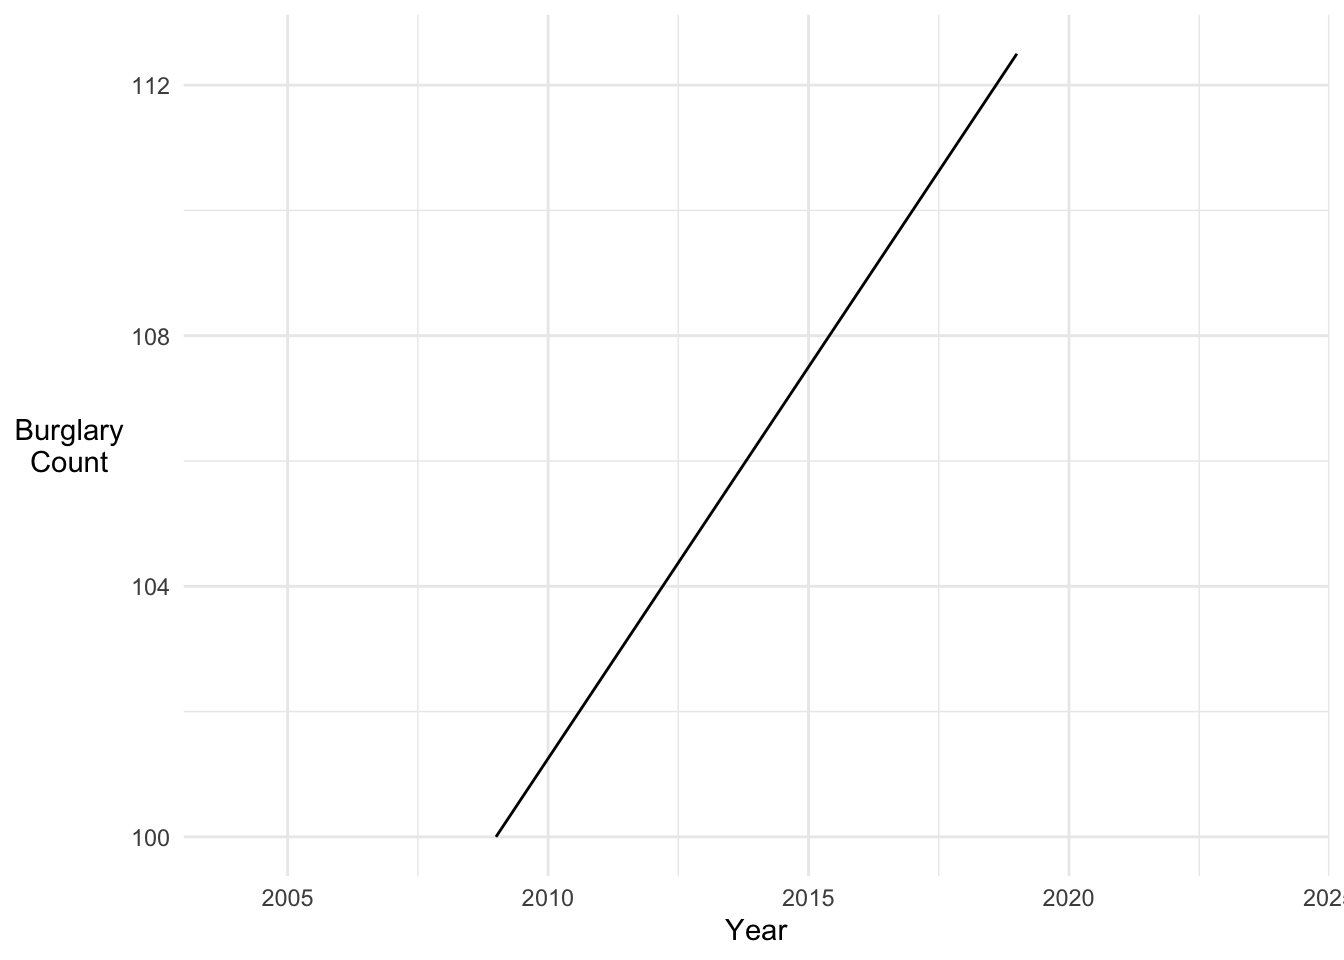
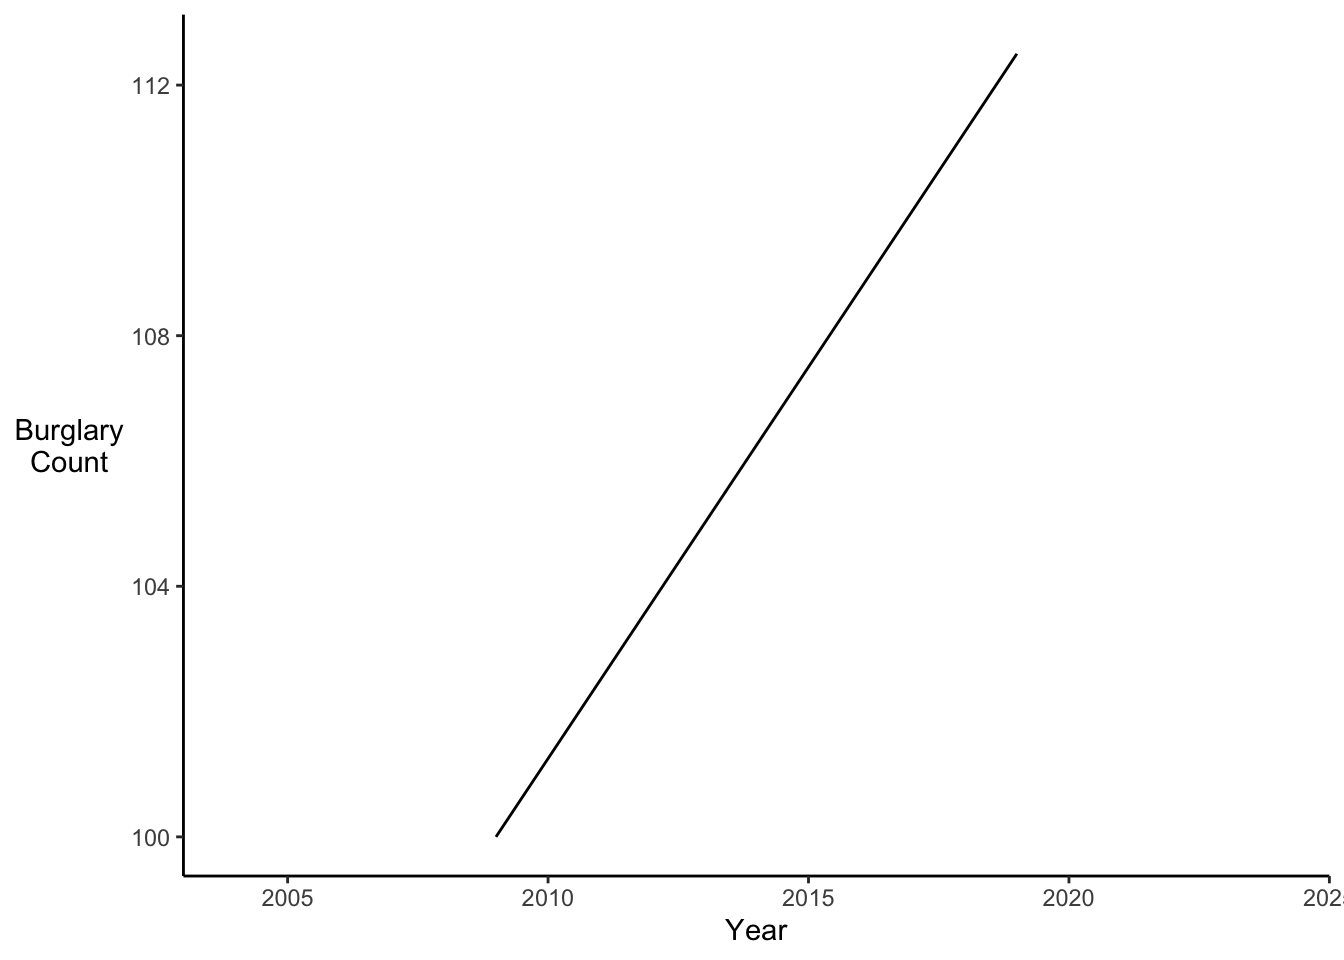
Changed graph themes

diff --git a/public/summaries/lies_and_stats_levitin_2016/index.html b/public/summaries/lies_and_stats_levitin_2016/index.html
@@ -178,7 +178,7 @@ ggplot(product_ratings, aes(x = Product, y = mean_rating, fill = Product)) +
   scale_fill_discrete(guide = &quot;none&quot;) +
   scale_y_continuous(&quot;Customer\nRating&quot;) +
   coord_cartesian(ylim = c(67.5, 71.5)) +
-  theme_minimal() +
+  theme_classic() +
   theme(axis.title.y = element_text(angle = 0, vjust = 0.5))</code></pre>
 <p><img src="/summaries/lies_and_stats_Levitin_2016_files/figure-html/truncated%20bar%20chart-1.png" width="672" style="display: block; margin: auto;" /></p>
 <p>It looks like my product blows my competitor’s out of the water. However, notice where the y-axis starts and ends.</p>
@@ -188,7 +188,7 @@ ggplot(product_ratings, aes(x = Product, y = mean_rating, fill = Product)) +
   geom_col() +
   scale_fill_discrete(guide = &quot;none&quot;) +
   scale_y_continuous(&quot;Customer\nRating&quot;, limits = c(0, 100)) +
-  theme_minimal() +
+  theme_classic() +
   theme(axis.title.y = element_text(angle = 0, vjust = 0.5))</code></pre>
 <p><img src="/summaries/lies_and_stats_Levitin_2016_files/figure-html/full%20range%20bar%20chart-1.png" width="672" style="display: block; margin: auto;" /></p>
 </div>
@@ -201,7 +201,7 @@ ggplot(product_ratings, aes(x = Product, y = mean_rating, fill = Product)) +
   ggplot(aes(x = Year, y = burglary_count)) +
   geom_line(group = 1) +
   scale_y_continuous(&quot;Burglary\nCount&quot;) +
-  theme_minimal() +
+  theme_classic() +
   theme(axis.title.y = element_text(angle = 0, vjust = 0.5))</code></pre>
 <p><img src="/summaries/lies_and_stats_Levitin_2016_files/figure-html/discontinuous%20line%20graph-1.png" width="672" style="display: block; margin: auto;" /></p>
 <p>However, the apparent spike in burglaries is just an artefact of the fact that 5 year’s worth of increases have been squeezed into one notch on the x-axis.</p>
@@ -215,7 +215,7 @@ ggplot(product_ratings, aes(x = Product, y = mean_rating, fill = Product)) +
   geom_line(group = 1) +
   scale_y_continuous(&quot;Burglary\nCount&quot;) +
   scale_x_continuous(breaks = c(2009, 2011, 2013, 2015, 2017, 2019)) +
-  theme_minimal() +
+  theme_classic() +
   theme(axis.title.y = element_text(angle = 0, vjust = 0.5))</code></pre>
 <p><img src="/summaries/lies_and_stats_Levitin_2016_files/figure-html/normal%20line%20graph-1.png" width="672" style="display: block; margin: auto;" /></p>
 <p>However, we can make the same data look much more extreme by including space on the x-axis for years without any data. This narrows the visual space over which the increase in our data must be plotted meaning the line is steeper. Thus, the same increase over the same timespan looks much more drastic:</p>
@@ -224,7 +224,7 @@ ggplot(product_ratings, aes(x = Product, y = mean_rating, fill = Product)) +
   geom_line(group = 1) +
   scale_y_continuous(&quot;Burglary\nCount&quot;) +
   coord_cartesian(xlim = c(2004, 2024)) +
-  theme_minimal() +
+  theme_classic() +
   theme(axis.title.y = element_text(angle = 0, vjust = 0.5))</code></pre>
 <p><img src="/summaries/lies_and_stats_Levitin_2016_files/figure-html/elongated%20line%20graph-1.png" width="672" style="display: block; margin: auto;" /> Include axis space beyond the range of your data to make changes look more extreme.</p>
 </div>

diff --git a/content/summaries/lies_and_stats_Levitin_2016.html b/content/summaries/lies_and_stats_Levitin_2016.html
@@ -79,7 +79,7 @@ ggplot(product_ratings, aes(x = Product, y = mean_rating, fill = Product)) +
   scale_fill_discrete(guide = &quot;none&quot;) +
   scale_y_continuous(&quot;Customer\nRating&quot;) +
   coord_cartesian(ylim = c(67.5, 71.5)) +
-  theme_minimal() +
+  theme_classic() +
   theme(axis.title.y = element_text(angle = 0, vjust = 0.5))</code></pre>
 <p><img src="/summaries/lies_and_stats_Levitin_2016_files/figure-html/truncated%20bar%20chart-1.png" width="672" style="display: block; margin: auto;" /></p>
 <p>It looks like my product blows my competitor’s out of the water. However, notice where the y-axis starts and ends.</p>
@@ -89,7 +89,7 @@ ggplot(product_ratings, aes(x = Product, y = mean_rating, fill = Product)) +
   geom_col() +
   scale_fill_discrete(guide = &quot;none&quot;) +
   scale_y_continuous(&quot;Customer\nRating&quot;, limits = c(0, 100)) +
-  theme_minimal() +
+  theme_classic() +
   theme(axis.title.y = element_text(angle = 0, vjust = 0.5))</code></pre>
 <p><img src="/summaries/lies_and_stats_Levitin_2016_files/figure-html/full%20range%20bar%20chart-1.png" width="672" style="display: block; margin: auto;" /></p>
 </div>
@@ -102,7 +102,7 @@ ggplot(product_ratings, aes(x = Product, y = mean_rating, fill = Product)) +
   ggplot(aes(x = Year, y = burglary_count)) +
   geom_line(group = 1) +
   scale_y_continuous(&quot;Burglary\nCount&quot;) +
-  theme_minimal() +
+  theme_classic() +
   theme(axis.title.y = element_text(angle = 0, vjust = 0.5))</code></pre>
 <p><img src="/summaries/lies_and_stats_Levitin_2016_files/figure-html/discontinuous%20line%20graph-1.png" width="672" style="display: block; margin: auto;" /></p>
 <p>However, the apparent spike in burglaries is just an artefact of the fact that 5 year’s worth of increases have been squeezed into one notch on the x-axis.</p>
@@ -116,7 +116,7 @@ ggplot(product_ratings, aes(x = Product, y = mean_rating, fill = Product)) +
   geom_line(group = 1) +
   scale_y_continuous(&quot;Burglary\nCount&quot;) +
   scale_x_continuous(breaks = c(2009, 2011, 2013, 2015, 2017, 2019)) +
-  theme_minimal() +
+  theme_classic() +
   theme(axis.title.y = element_text(angle = 0, vjust = 0.5))</code></pre>
 <p><img src="/summaries/lies_and_stats_Levitin_2016_files/figure-html/normal%20line%20graph-1.png" width="672" style="display: block; margin: auto;" /></p>
 <p>However, we can make the same data look much more extreme by including space on the x-axis for years without any data. This narrows the visual space over which the increase in our data must be plotted meaning the line is steeper. Thus, the same increase over the same timespan looks much more drastic:</p>
@@ -125,7 +125,7 @@ ggplot(product_ratings, aes(x = Product, y = mean_rating, fill = Product)) +
   geom_line(group = 1) +
   scale_y_continuous(&quot;Burglary\nCount&quot;) +
   coord_cartesian(xlim = c(2004, 2024)) +
-  theme_minimal() +
+  theme_classic() +
   theme(axis.title.y = element_text(angle = 0, vjust = 0.5))</code></pre>
 <p><img src="/summaries/lies_and_stats_Levitin_2016_files/figure-html/elongated%20line%20graph-1.png" width="672" style="display: block; margin: auto;" /> Include axis space beyond the range of your data to make changes look more extreme.</p>
 </div>
